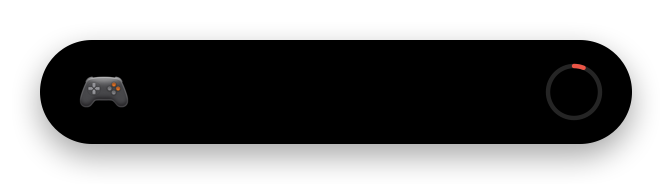
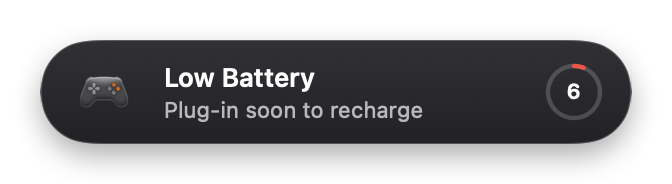
docs: fix HUD and popover preview screenshots and align README threshold text

diff --git a/scripts/render_screenshots.swift b/scripts/render_screenshots.swift
@@ -5,6 +5,10 @@ import SwiftUI
 struct RenderScreenshots {
     @MainActor
     static func main() {
+        let app = NSApplication.shared
+        app.setActivationPolicy(.prohibited)
+        app.appearance = NSAppearance(named: .darkAqua)
+
         let mockDevice = ControllerDevice(
             id: "preview_dualsense",
             name: "DualSense Wireless Controller",
@@ -20,24 +24,30 @@ struct RenderScreenshots {
             .background(
                 ZStack {
                     RoundedRectangle(cornerRadius: 14, style: .continuous)
-                        .fill(Color(red: 0.13, green: 0.13, blue: 0.15, opacity: 0.96))
+                        .fill(Color(red: 0.14, green: 0.14, blue: 0.16))
                     RoundedRectangle(cornerRadius: 14, style: .continuous)
-                        .strokeBorder(Color.white.opacity(0.18), lineWidth: 0.5)
+                        .strokeBorder(Color.white.opacity(0.16), lineWidth: 0.5)
                 }
             )
             .clipShape(RoundedRectangle(cornerRadius: 14, style: .continuous))
             .preferredColorScheme(.dark)
 
         let popHosting = NSHostingView(rootView: popoverContent)
-        let popSize = CGSize(width: 320, height: popHosting.fittingSize.height)
+        popHosting.appearance = NSAppearance(named: .darkAqua)
+        let fittingPop = popHosting.fittingSize
+        let popSize = CGSize(width: 300, height: fittingPop.height)
         popHosting.frame = NSRect(origin: .zero, size: popSize)
         popHosting.wantsLayer = true
         popHosting.layer?.backgroundColor = NSColor.clear.cgColor
+        popHosting.layoutSubtreeIfNeeded()
 
-        let popWindow = NSWindow(contentRect: NSRect(origin: .zero, size: popSize),
-                                 styleMask: [.borderless],
-                                 backing: .buffered,
-                                 defer: false)
+        let popWindow = NSWindow(
+            contentRect: NSRect(origin: .zero, size: popSize),
+            styleMask: [.borderless],
+            backing: .buffered,
+            defer: false
+        )
+        popWindow.appearance = NSAppearance(named: .darkAqua)
         popWindow.backgroundColor = .clear
         popWindow.isOpaque = false
         popWindow.hasShadow = false
@@ -50,22 +60,31 @@ struct RenderScreenshots {
             popImg.addRepresentation(rep)
         }
 
-        // Draw onto padded canvas with smooth shadow along vector rounded rect path
-        let popPad: CGFloat = 30
+        let popPad: CGFloat = 28
         let popCanvasSize = CGSize(width: popSize.width + popPad * 2, height: popSize.height + popPad * 2)
         let popCanvas = NSImage(size: popCanvasSize)
         popCanvas.lockFocus()
         if let ctx = NSGraphicsContext.current?.cgContext {
             ctx.clear(CGRect(origin: .zero, size: popCanvasSize))
-            let shadowPath = CGPath(roundedRect: CGRect(x: popPad, y: popPad, width: popSize.width, height: popSize.height),
-                                    cornerWidth: 14, cornerHeight: 14, transform: nil)
+            let shadowPath = CGPath(
+                roundedRect: CGRect(x: popPad + 1, y: popPad + 1, width: popSize.width - 2, height: popSize.height - 2),
+                cornerWidth: 14,
+                cornerHeight: 14,
+                transform: nil
+            )
             ctx.saveGState()
-            ctx.setShadow(offset: CGSize(width: 0, height: -10), blur: 22, color: NSColor.black.withAlphaComponent(0.40).cgColor)
+            ctx.setShadow(offset: CGSize(width: 0, height: -8), blur: 20, color: NSColor.black.withAlphaComponent(0.38).cgColor)
+            ctx.setFillColor(NSColor.black.cgColor)
             ctx.addPath(shadowPath)
             ctx.fillPath()
             ctx.restoreGState()
 
-            popImg.draw(in: CGRect(x: popPad, y: popPad, width: popSize.width, height: popSize.height), from: .zero, operation: .sourceOver, fraction: 1.0)
+            popImg.draw(
+                in: CGRect(x: popPad, y: popPad, width: popSize.width, height: popSize.height),
+                from: .zero,
+                operation: .sourceOver,
+                fraction: 1.0
+            )
         }
         popCanvas.unlockFocus()
 
@@ -73,28 +92,94 @@ struct RenderScreenshots {
            let rep = NSBitmapImageRep(data: tiff),
            let png = rep.representation(using: .png, properties: [:]) {
             try? png.write(to: URL(fileURLWithPath: "/Users/pascal/.gemini/antigravity/scratch/LifeBar/assets/popover.png"))
-            try? png.write(to: URL(fileURLWithPath: "/Users/pascal/.gemini/antigravity/brain/a2e2b031-f5de-4069-bd38-685f21ab768b/popover.png"))
-            print("Successfully rendered actual MenuView popover to assets/popover.png")
+            print("Rendered assets/popover.png (\(Int(popSize.width))x\(Int(popSize.height)))")
         }
 
-        // 2. RENDER ACTUAL HUD PILL NOTIFICATION
-        let hudContent = LowBatteryHUDView(
-            controllerName: "DualSense Wireless Controller",
-            batteryPercent: 6,
-            brand: .playStation
+        // 2. RENDER HUD PILL NOTIFICATION (matching LowBatteryHUDView layout in dark glass)
+        let controllerImg = NSImage(contentsOfFile: "/System/Library/PrivateFrameworks/CoreBluetoothUI.framework/Versions/A/Resources/Generic-GameController.png")
+        let hudContent = HStack(spacing: 12) {
+            if let img = controllerImg {
+                Image(nsImage: img)
+                    .resizable()
+                    .aspectRatio(contentMode: .fit)
+                    .frame(width: 36, height: 26)
+            } else {
+                Image(systemName: "gamecontroller.fill")
+                    .font(.system(size: 16, weight: .medium))
+                    .foregroundColor(.white)
+            }
+
+            VStack(alignment: .leading, spacing: 1.5) {
+                Text("Low Battery")
+                    .font(.system(size: 13, weight: .semibold, design: .default))
+                    .foregroundColor(.white)
+
+                Text("Plug-in soon to recharge")
+                    .font(.system(size: 11, weight: .regular, design: .default))
+                    .foregroundColor(.white.opacity(0.68))
+            }
+
+            Spacer(minLength: 10)
+
+            ZStack {
+                Circle()
+                    .stroke(Color.white.opacity(0.18), lineWidth: 2.2)
+                    .frame(width: 26, height: 26)
+
+                Circle()
+                    .trim(from: 0, to: 0.06)
+                    .stroke(
+                        Color(red: 1.0, green: 0.27, blue: 0.23),
+                        style: StrokeStyle(lineWidth: 2.2, lineCap: .round)
+                    )
+                    .rotationEffect(.degrees(-90))
+                    .frame(width: 26, height: 26)
+
+                Text("6")
+                    .font(.system(size: 10.5, weight: .semibold, design: .rounded))
+                    .foregroundColor(.white)
+                    .monospacedDigit()
+            }
+        }
+        .padding(.leading, 14)
+        .padding(.trailing, 16)
+        .padding(.vertical, 8)
+        .frame(width: 296, height: 52)
+        .background(
+            ZStack {
+                Capsule()
+                    .fill(
+                        LinearGradient(
+                            colors: [
+                                Color(red: 0.19, green: 0.19, blue: 0.21),
+                                Color(red: 0.13, green: 0.13, blue: 0.15)
+                            ],
+                            startPoint: .top,
+                            endPoint: .bottom
+                        )
+                    )
+                Capsule()
+                    .strokeBorder(Color.white.opacity(0.22), lineWidth: 0.5)
+            }
         )
+        .clipShape(Capsule())
         .preferredColorScheme(.dark)
 
         let hudSize = CGSize(width: 296, height: 52)
         let hudHosting = NSHostingView(rootView: hudContent)
+        hudHosting.appearance = NSAppearance(named: .darkAqua)
         hudHosting.frame = NSRect(origin: .zero, size: hudSize)
         hudHosting.wantsLayer = true
         hudHosting.layer?.backgroundColor = NSColor.clear.cgColor
+        hudHosting.layoutSubtreeIfNeeded()
 
-        let hudWindow = NSWindow(contentRect: NSRect(origin: .zero, size: hudSize),
-                                 styleMask: [.borderless],
-                                 backing: .buffered,
-                                 defer: false)
+        let hudWindow = NSWindow(
+            contentRect: NSRect(origin: .zero, size: hudSize),
+            styleMask: [.borderless],
+            backing: .buffered,
+            defer: false
+        )
+        hudWindow.appearance = NSAppearance(named: .darkAqua)
         hudWindow.backgroundColor = .clear
         hudWindow.isOpaque = false
         hudWindow.hasShadow = false
@@ -113,15 +198,25 @@ struct RenderScreenshots {
         hudCanvas.lockFocus()
         if let ctx = NSGraphicsContext.current?.cgContext {
             ctx.clear(CGRect(origin: .zero, size: hudCanvasSize))
-            let pillPath = CGPath(roundedRect: CGRect(x: hudPad, y: hudPad, width: hudSize.width, height: hudSize.height),
-                                  cornerWidth: 26, cornerHeight: 26, transform: nil)
+            let pillPath = CGPath(
+                roundedRect: CGRect(x: hudPad + 1, y: hudPad + 1, width: hudSize.width - 2, height: hudSize.height - 2),
+                cornerWidth: 25,
+                cornerHeight: 25,
+                transform: nil
+            )
             ctx.saveGState()
             ctx.setShadow(offset: CGSize(width: 0, height: -6), blur: 16, color: NSColor.black.withAlphaComponent(0.35).cgColor)
+            ctx.setFillColor(NSColor.black.cgColor)
             ctx.addPath(pillPath)
             ctx.fillPath()
             ctx.restoreGState()
 
-            hudImg.draw(in: CGRect(x: hudPad, y: hudPad, width: hudSize.width, height: hudSize.height), from: .zero, operation: .sourceOver, fraction: 1.0)
+            hudImg.draw(
+                in: CGRect(x: hudPad, y: hudPad, width: hudSize.width, height: hudSize.height),
+                from: .zero,
+                operation: .sourceOver,
+                fraction: 1.0
+            )
         }
         hudCanvas.unlockFocus()
 
@@ -129,8 +224,7 @@ struct RenderScreenshots {
            let rep = NSBitmapImageRep(data: tiff),
            let png = rep.representation(using: .png, properties: [:]) {
             try? png.write(to: URL(fileURLWithPath: "/Users/pascal/.gemini/antigravity/scratch/LifeBar/assets/hud.png"))
-            try? png.write(to: URL(fileURLWithPath: "/Users/pascal/.gemini/antigravity/brain/a2e2b031-f5de-4069-bd38-685f21ab768b/hud.png"))
-            print("Successfully rendered actual LowBatteryHUDView pill to assets/hud.png")
+            print("Rendered assets/hud.png (\(Int(hudSize.width))x\(Int(hudSize.height)))")
         }
     }
 }

diff --git a/README.md b/README.md
@@ -26,7 +26,7 @@
 
 - **Menu bar battery status:** Sits quietly in the menu bar (`LSUIElement`) with an optional live percentage readout and hover tooltip.
 - **Broad controller support:** Tracks Sony (DualSense, DualShock 4), Xbox, Nintendo (Switch Pro, Joy-Con), and MFi/HID controllers via `GameController.framework`.
-- **Non-activating low-battery HUD:** Shows a floating capsule alert when a controller drops below your threshold (5%–35%) without stealing focus from full-screen games.
+- **Non-activating low-battery HUD:** Shows a floating capsule alert when a controller drops below your threshold (10%–30%) without stealing focus from full-screen games.
 - **Launch at Login:** Uses `SMAppService` and refreshes automatically after sleep/wake.
 
 ## Install
